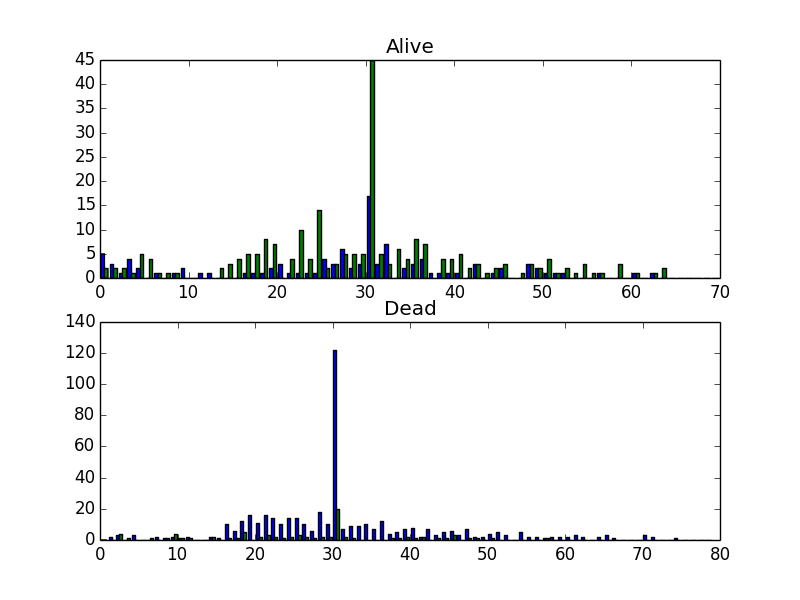
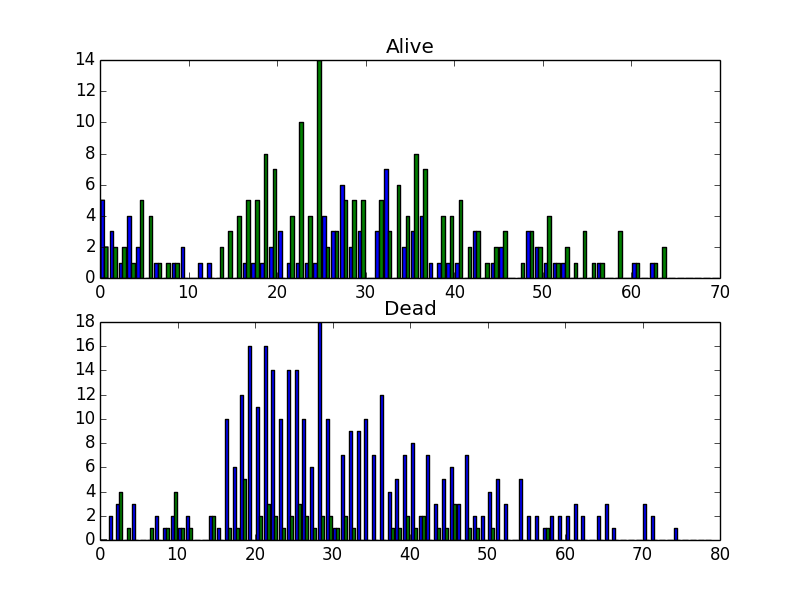
filtering out 30 year olds who are "unknown age" in age histogram

Changed region(s): [[0.0625, 0.51, 0.875, 0.9], [0.0938, 0.09, 0.8438, 0.48]]

diff --git a/main.py b/main.py
@@ -116,6 +116,11 @@ fig1.savefig('ClassHistogram')
 
 plt.clf()  # clear existing plot
 
+men_sur_age = filter(lambda a: a!=30, men_sur_age)
+wom_sur_age = filter(lambda a: a!=30, wom_sur_age)
+men_die_age = filter(lambda a: a!=30, men_die_age)
+wom_die_age = filter(lambda a: a!=30, wom_die_age)
+
 bins = np.arange(0,80,1)
 fig1 = plt.figure(1)
 plt.title ('Age Histogram')
